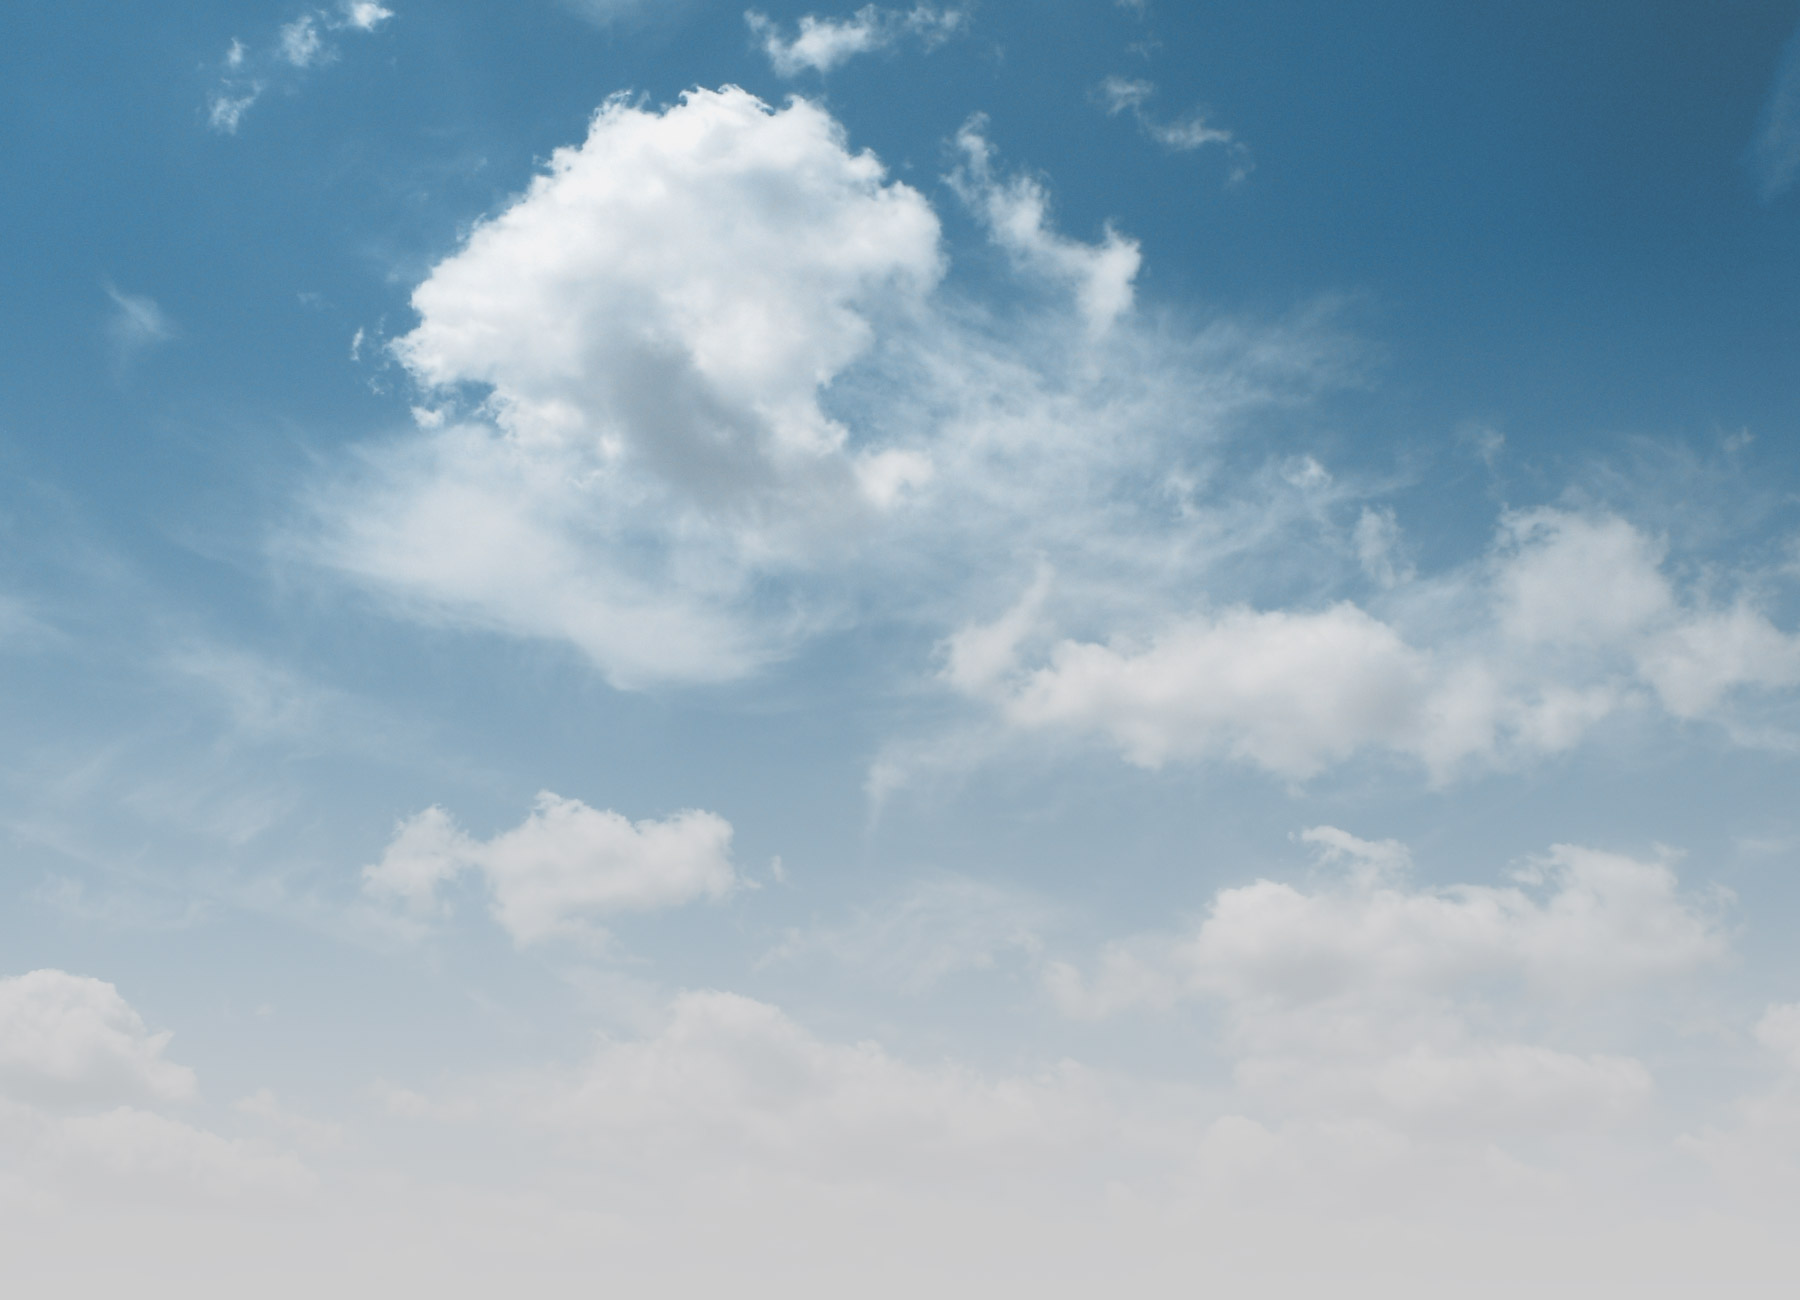
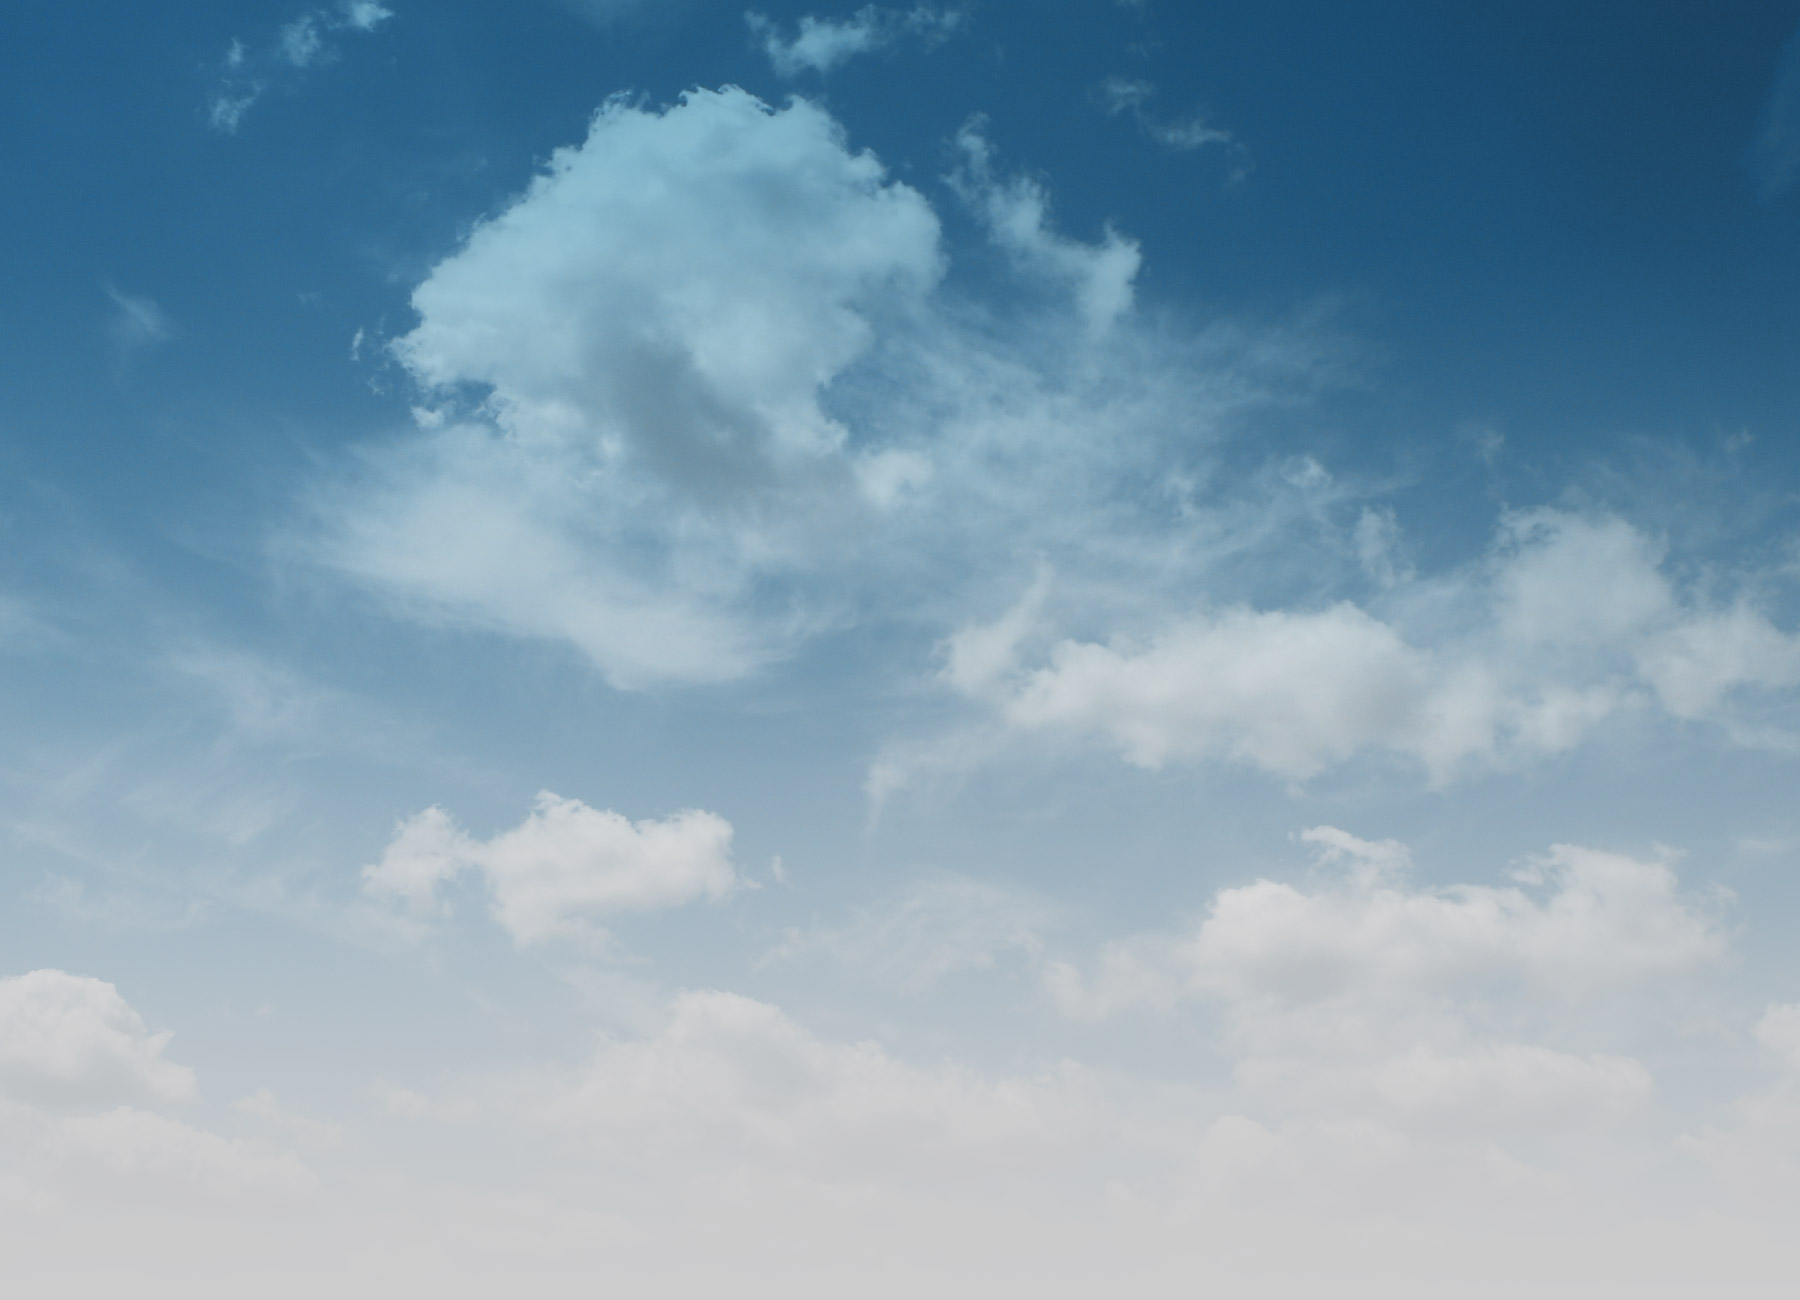
Homepage updates, sky bg, intro text

diff --git a/groups/css/global.css b/groups/css/global.css
@@ -208,6 +208,16 @@ font-family: 'Droid Serif', serif;
  font-weight: 300;
 }
 
+h3.intro-text, h3.intro-text a {
+color: white;
+text-shadow: 1px 1px rgba(0,0,0,.3);
+margin-top: 20px;
+margin-bottom: 20px;
+font-family: 'Droid Serif', serif;
+font-weight: 300px;
+font-style: italic;
+}
+
 .home h2 {
 color: white;
 font-family: 'Open Sans', serif;

diff --git a/groups/index.html b/groups/index.html
@@ -43,7 +43,8 @@
 		
 		<div class="container home">
 		<div class="container-padding">
-			<h2>Projects</h2>
+			<h3 class="intro-text">December 21, 1988 changed our world forever. Explore how with this interactive series.
+</h3>
 			<ul class="home-projects">
 				<li>
 				<div class="row">
